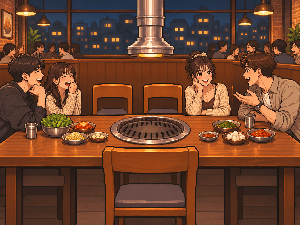
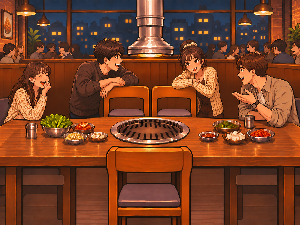
fix(images): reframe adult 007 for portrait crop

diff --git a/docs/assignments/20261031/submissions/김우영.md b/docs/assignments/20261031/submissions/김우영.md
@@ -104,3 +104,11 @@
 - 중앙 x=34~66% 계산 크롭에서 이상형 옆·친구 사이의 건너편 빈자리 2개와 불판 앞 빈자리 1개가 서로 분리되어 모두 남는다.
 - 사건 ID·imageId·본문·선택 결과는 변경하지 않았고 중앙 라우팅도 활성화하지 않았다.
 - 상태는 **재구도 제출 후보 / 팀 의미 검수·실기기 크롭·라우팅 승인 대기**다. 자체 크롭 통과를 최종 승인으로 보고하지 않는다.
+
+## adult_007 PR #69 세로 구도 보완 (2026-11-11)
+
[1 lines of base64/hex data omitted]
+- 양쪽 인물을 건너편 빈 의자 뒤로 당기고, 건너편 2개와 앞쪽 1개로 빈 의자 총 3개를 정확히 유지했다. 사건 ID `adult_007`, imageId `img_adult_friends_drinks_001`, 본문·선택지·결과는 변경하지 않았다.
[1 lines of base64/hex data omitted]
+- 중앙 x=34~66% 계산 크롭에서 왼쪽 친구와 오른쪽 인물의 얼굴·상체, 빈 의자 3개가 함께 남는 것을 확인했다. 근거 파일은 `batches/20261106-wooyoung-01/adult_007_center_crop_v4.png`이며 실기기 캡처로 주장하지 않는다.
+- 중앙 라우팅은 변경하지 않았고 `runtimeRouted=false`, `teamAcceptance=PENDING`을 유지한다. 팀 재검수·실기기 크롭·라우팅 승인은 아직 미완료다.

diff --git a/docs/assignments/20261031/submissions/batches/20261106-wooyoung-01/README.md b/docs/assignments/20261031/submissions/batches/20261106-wooyoung-01/README.md
@@ -13,7 +13,8 @@
 ## adult_007 재구도 후보
 
 - 파일: `app/src/main/assets/images/followup_20261031/img_adult_friends_drinks_001.png`
[2 lines of base64/hex data omitted]
 - 규격: 300×225 PNG, 4:3
-- 계산 크롭: x=102..197(원본 300px의 중앙 34~66%)에서 앞쪽 빈 의자 1개와 건너편 빈 의자 2개가 모두 분리되어 남는다.
+- PR #69 보완: 이전 후보는 빈자리만 남고 양옆 인물이 거의 사라져 반려됐다. 양쪽 인물을 건너편 의자 뒤로 당겨 x=102..197(원본 300px의 중앙 34~66%)에서 두 인물의 얼굴·상체, 앞쪽 빈 의자 1개와 건너편 빈 의자 2개가 함께 남는다.
+- 계산 크롭 근거: `adult_007_center_crop_v4.png` (실기기 캡처가 아닌 계산 예상 크롭).
 - 상태: `SELF_REVIEW_PASS_PENDING_TEAM_REVIEW`; 실제 앱 크롭과 팀 의미 검수는 미완료다.
